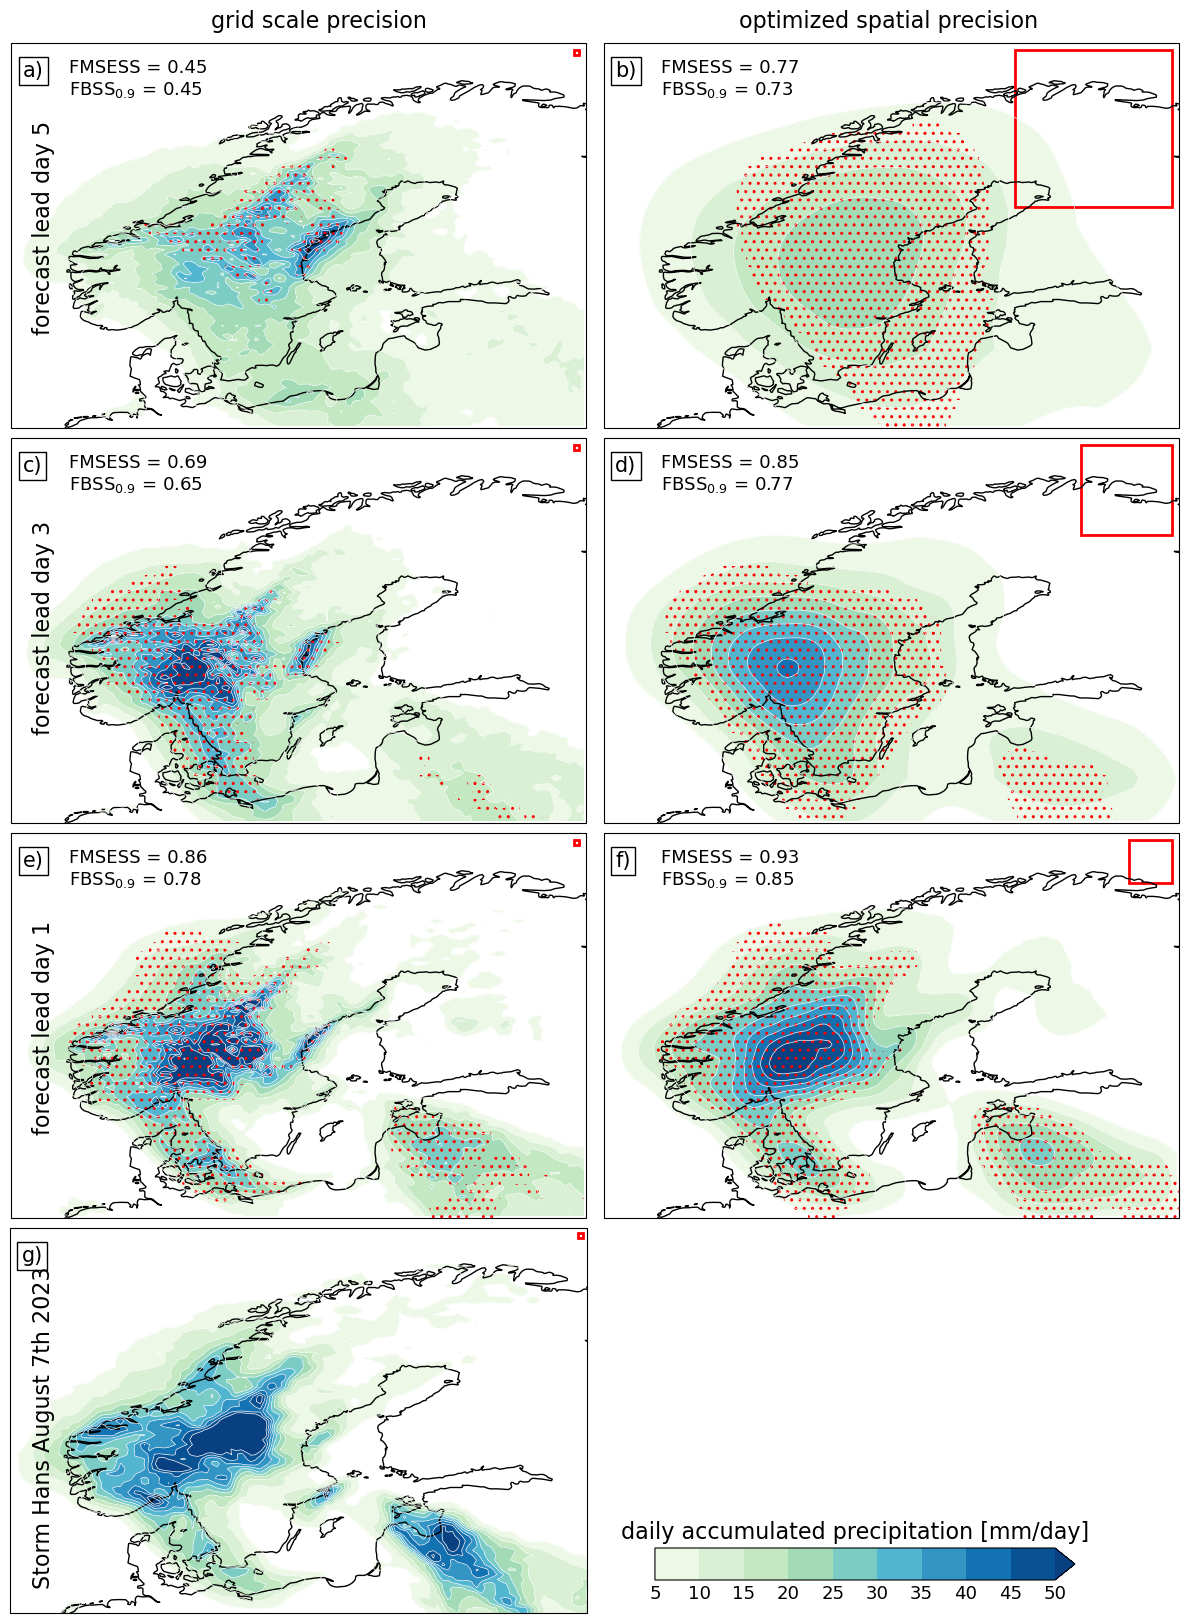
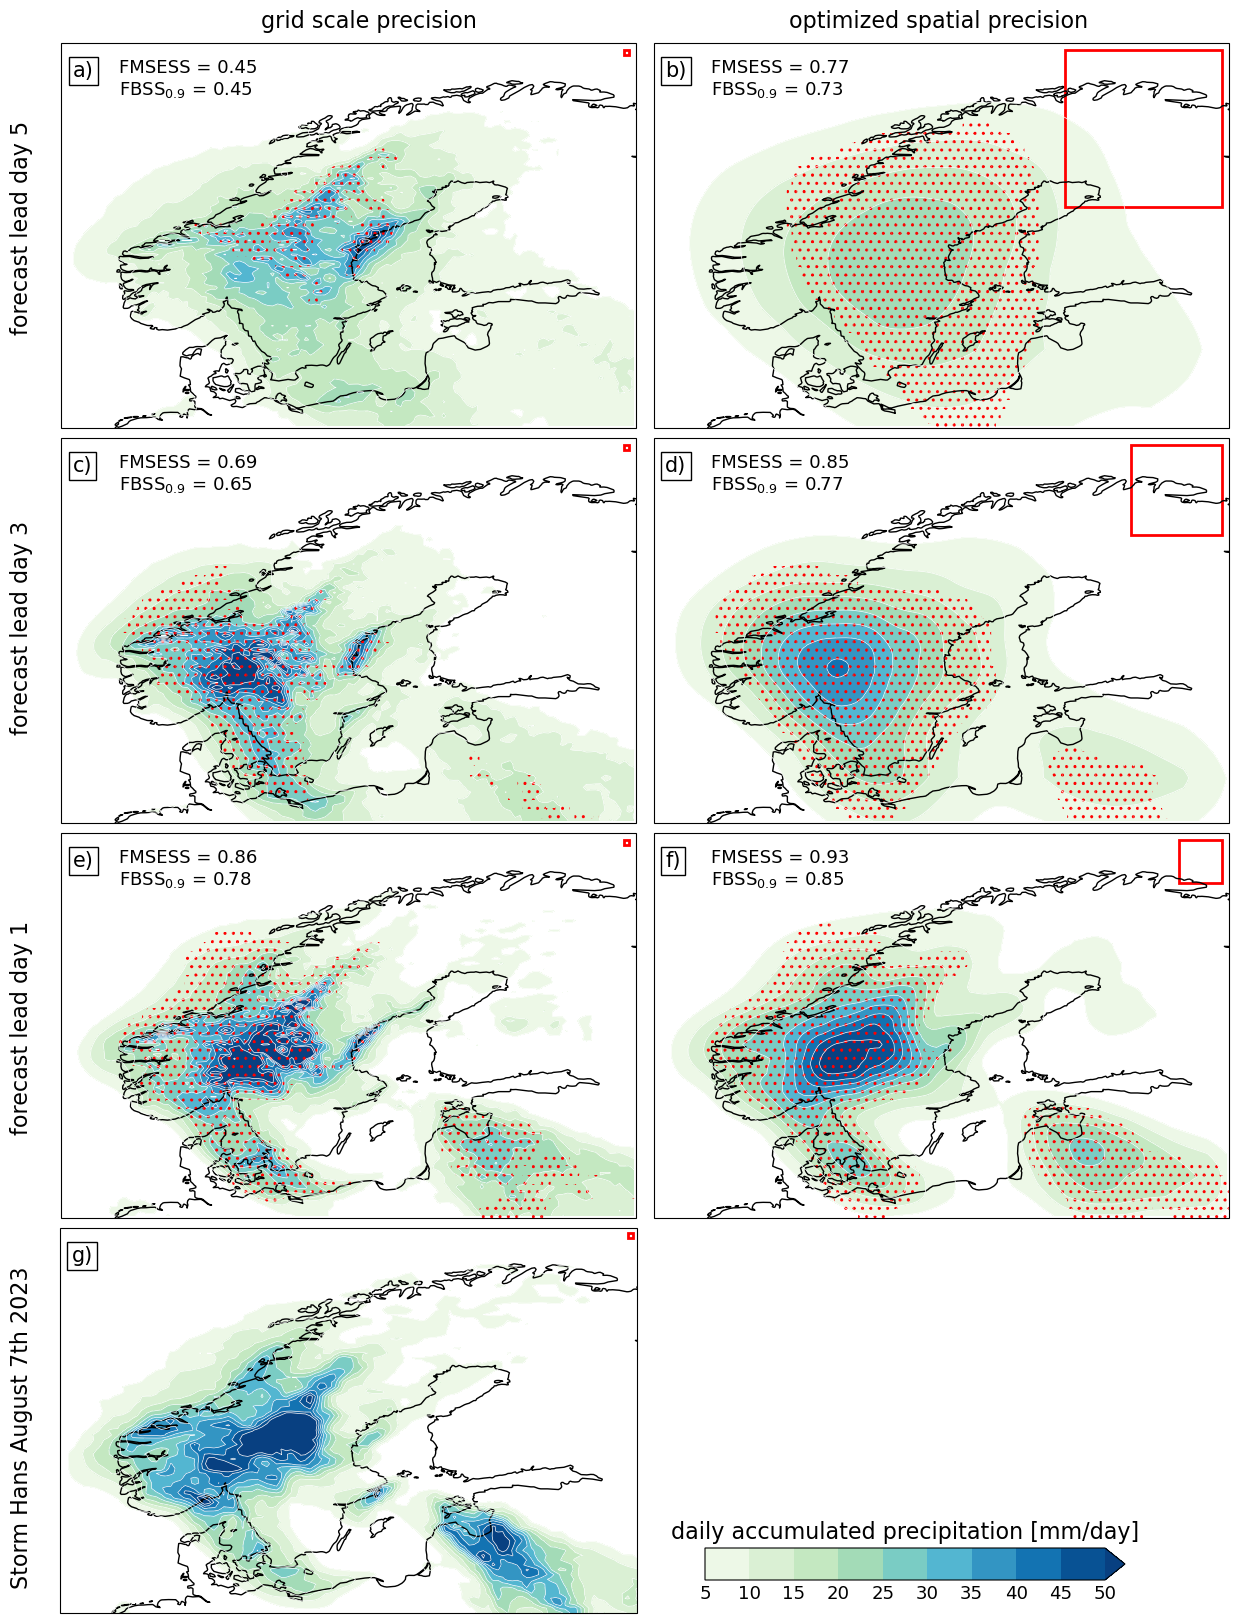
update

diff --git a/code/plot/test.py b/code/plot/test.py
@@ -134,7 +134,7 @@ y_positions = [1 - (i + 0.5) / nrows for i in range(nrows)]  # Centered vertical
 labels = ['forecast lead day 5', 'forecast lead day 3', 'forecast lead day 1', 'Storm Hans August 7th 2023']
 
 for y, label in zip(y_positions, labels):
-    fig.text(0.05, y, label, fontsize=fontsize + 5, va='center', ha='right', rotation=90)
+    fig.text(-0.01, y, label, fontsize=fontsize + 5, va='center', ha='right', rotation=90)
     
 #fig.text(-0.01,0.81,'forecast lead day 5',rotation=90,fontsize=fontsize+5)
 #fig.text(-0.01,0.56,'forecast lead day 3',rotation=90,fontsize=fontsize+5)
